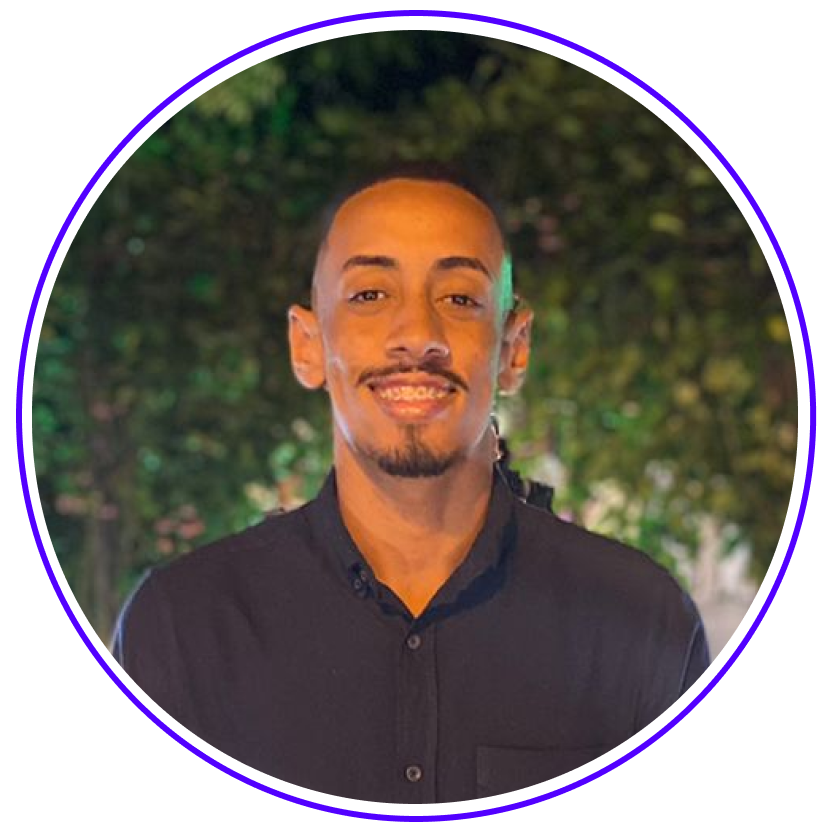
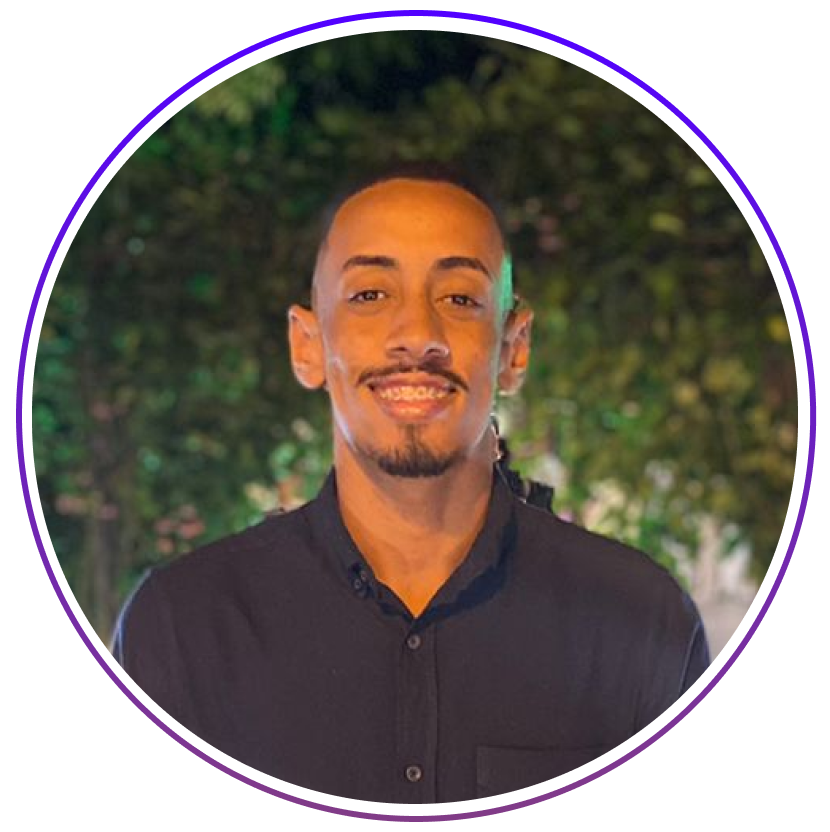
Finish portfolio :rocket:

diff --git a/src/components/Projects/styles.js b/src/components/Projects/styles.js
@@ -24,7 +24,7 @@ export const Container = styled.section`
     font-size: 16px;
 
     color: #fff;
-    background: #8A53FF;
+    background: linear-gradient(318deg, #813b87, #5200FF);
     border: none;
     border-radius: 5px;
     outline: none;
@@ -32,7 +32,6 @@ export const Container = styled.section`
 
     &:hover {
       transform: scale(1.1);
-      background: #6124EF;
     }
   }
 
@@ -58,43 +57,34 @@ export const ListProjects = styled.div`
 
   .project {
     margin: 32px 0;
-    display: flex;
+    display: grid;
+    grid-template-columns: 1fr 1fr;
     align-items: center;
-    justify-content: space-between;
-
-    &:nth-child(even) {
-      flex-direction: row-reverse;
-
-      @media (max-width: 860px) {
-        flex-direction: column;
-      }
-    }
-
-    &:nth-child(even) .project-info {
-      margin: 0;
-    }
     
     img {
       width: 250px;
       height: 120px;
+      margin: auto;
       margin-bottom: 16px;
       border-radius: 5px;
-      box-shadow:  2px 2px 32px 2px ${({ theme }) => (theme === 'dark' ? '#8A53FF61' : '#00000029')};
+      box-shadow:  2px 2px 32px 2px ${({ theme }) => (theme === 'dark' ? 'none' : '#00000029')};
       transition: all 0.3s ease-out;
 
       &:hover {
-        box-shadow:  1px 1px 32px 1px ${({ theme }) => (theme === 'dark' ? '#8A53FF' : '#0000006b')};
+        box-shadow:  1px 1px 32px 1px #8A53FF;
         transform: translate3d(0px, -0.125rem, 0px);
       }
     }
 
     .project-info {
-      margin-left: 72px;
-
       span {
         font-size: 22px;
         font-weight: bold;
         margin-bottom: 8px;
+      }
+
+      p {
+        margin-top: 4px;
       }
 
       a {
@@ -102,7 +92,10 @@ export const ListProjects = styled.div`
         margin-top: 12px;
         text-decoration: none;
         font-weight: bold;
-        color: #8A53FF;
+        background: linear-gradient(318deg, #813b87, #5200FF);
+        background-clip: text;
+        -webkit-background-clip: text;
+        -webkit-text-fill-color: transparent;
       }
 
       @media (max-width: 860px) {
@@ -117,6 +110,7 @@ export const ListProjects = styled.div`
     }
 
     @media (max-width: 860px) {
+      display: flex;
       justify-content: center;
       flex-direction: column;
     }

diff --git a/src/components/Landing/styles.js b/src/components/Landing/styles.js
@@ -12,6 +12,22 @@ const blink = keyframes`
   }
 `;
 
+const animateMouse = keyframes`
+  0% {
+    opacity: 0%;
+    transform: translateY(-20px);
+  }
+
+  50% {
+    opacity: 50%;
+  }
+
+  100% {
+    opacity: 100%;
+    transform: translateY(0);
+  }
+`;
+
 export const Container = styled.section`
   width: 100%;
   max-width: 1280px;
@@ -20,9 +36,12 @@ export const Container = styled.section`
 
   .mouse {
     position: absolute;
-    bottom: 32px;
+    bottom: 30px;
     left: 50%;
     color: ${({ theme }) => (theme === 'dark' ? '#fff' : '#000')};
+    animation: ${animateMouse} 1.3s infinite ease-in-out;
+    animation-delay: 3s;
+
 
     @media (max-width: 860px) {
       left: 46%;
@@ -72,7 +91,7 @@ export const LandingContainer = styled.div`
 
       &::after {
         width: 6px;
-        background: #8A53FF;
+        background: linear-gradient(318deg, #813b87, #5200FF);
         animation: ${animateText} 3s steps(24) 1s forwards, ${blink} 0.75s steps(24) infinite;
       }
 
@@ -111,12 +130,11 @@ export const LandingContainer = styled.div`
         border-radius: 5px;
         font-size: 16px;
         font-weight: 500;
-        background: #8A53FF;
+        background: linear-gradient(318deg, #813b87, #5200FF);
         transition: all 0.3s ease-out;
 
         &:hover {
           transform: scale(1.1);
-          background: #6124EF;
         }
         
         &:nth-child(2) {
@@ -158,8 +176,7 @@ export const ProfilePictute = styled.div`
     height: 350px;
     transition: all 0.3s ease-out 0s;
     box-shadow: 0px 0px 2.5rem ${({ theme }) => (theme === 'dark' ? '#5200FF61' : '#00000029')};
-    border-radius: 80%;
-    border: none;
+    border-radius: 100%;
 
     &:hover {
       transform: translate3d(0px, -0.125rem, 0px);

diff --git a/src/translate/languages/pt.js b/src/translate/languages/pt.js
@@ -15,9 +15,9 @@ const messages = {
         about: {
           bigText: 'Sobre mim',
           firstParagraph: 'Bem vindo(a) a meu portfolio!',
-          secondParagraph: 'Me chamo Pedro Leal, tenho 22 anos e estou há aproximadamente 1 ano focado nos estudos na área do Desenvolvimento Web. Como desenvolvedor, busco sempre aplicar as melhores práticas para entregar aplicações performáticas e com uma boa experiência para o usuário final.',
+          secondParagraph: 'Me chamo Pedro Leal, tenho 22 anos e estou a aproximadamente 1 ano focado nos estudos na área do Desenvolvimento Web. Como desenvolvedor, busco sempre aplicar as melhores práticas para entregar aplicações performáticas e com uma boa experiência para o usuário final.',
           thirdParagraph: 'Iniciei no mundo da programação no ano de 2018 quando ingressei no curso de Matemática Computacional na UFPB, durante o curso aprendi sobre os conceitos base da área como: lógica e algoritmos, condições, loops, estruturas de dados e etc. Também tive contato com as linguagens de programação C e Python.',
-          fourthParagraph: 'Atualmente, meu foco principal é o ecossistema do JavaScript, por isso diariamente me dedico ao desenvolvimento de novos projetos para colocar em prática meu estudos e adquirir mais conhecimento.',
+          fourthParagraph: 'Atualmente, meu foco principal é o ecossistema do JavaScript, por isso diariamente me dedico a criação de novos projetos para colocar em prática meus estudos e adquirir mais conhecimento.',
         },
         projects: {
           bigText: 'Projetos',

diff --git a/src/translate/languages/en.js b/src/translate/languages/en.js
@@ -13,11 +13,11 @@ const messages = {
           role: 'Front-end developer.',
         },
         about: {
-          bigText: 'Sobre mim',
+          bigText: 'About me',
           firstParagraph: 'Welcome to my portfolio!',
           secondParagraph: "My name is Pedro Leal, i'm 22 years old and i've been focusing on studies in the area of Web Development for approximately 1 year. As a developer, i always seek to apply best practices to deliver performance applications with a good end-user experience.",
           thirdParagraph: 'I started in the programming world in 2018 when I joined the Computational Mathematics course at UFPB, during the course I learned about the basic concepts of the area such as: logic and algorithms, conditions, loops, data structures and etc. I also had contact with the C and Python programming languages.',
-          fourthParagraph: 'Currently, my main focus is the JavaScript ecosystem, so I dedicate myself daily to the development of new projects to put my studies into practice and acquire more knowledge.',
+          fourthParagraph: 'Currently, my main focus is the JavaScript ecosystem, so I dedicate myself daily to create new projects to put my studies into practice and acquire more knowledge.',
         },
         projects: {
           bigText: 'Projects',

diff --git a/src/components/Techs/index.jsx b/src/components/Techs/index.jsx
@@ -1,5 +1,8 @@
+import { useContext } from 'react';
 import { Container, ListTechs, Tech } from './styles';
 import { i18n } from '../../translate/i18n';
+
+import { ThemeContext } from '../../App';
 
 const techs = [
   {
@@ -16,7 +19,7 @@ const techs = [
   },
   {
     name: 'NextJS',
-    iconSrc: 'https://cdn.jsdelivr.net/gh/devicons/devicon/icons/nextjs/nextjs-original-wordmark.svg',
+    iconSrc: 'https://cdn.jsdelivr.net/gh/devicons/devicon/icons/nextjs/nextjs-original.svg',
   },
   {
     name: 'Git',
@@ -37,14 +40,16 @@ const techs = [
 ];
 
 export function Techs({ elementRef }) {
+  const { theme } = useContext(ThemeContext);
+
   return (
-    <Container ref={elementRef}>
+    <Container ref={elementRef} theme={theme}>
       <h1>{i18n.t('components.techs.bigText')}</h1>
       <p>{i18n.t('components.techs.smallText')}</p>
       <ListTechs>
         {techs.map(({ name, iconSrc }, index) => (
           <Tech key={index}>
-            <div className="tech-square">
+            <div className={`tech-square tech-square-${name}`}>
               <img src={iconSrc} alt={`Icone ${name}`} />
             </div>
             <span>{name}</span>

diff --git a/src/components/Contact/styles.js b/src/components/Contact/styles.js
@@ -1,14 +1,25 @@
 import styled from 'styled-components';
 
 export const Container = styled.section`
-  width: 100vw;
+  width: 100%;
+  max-width: 1280px;
+  border-radius: 32px;
   margin: 72px auto;
   padding-bottom: 120px;
   margin-bottom: 0;
-  background: #5200FF;
+  background: linear-gradient(318deg, #813b87, #5200FF);
   display: flex;
   align-items: center;
   flex-direction: column;
+
+  @media (max-width: 1500px) {
+    max-width: 1080px;
+  }
+
+  @media (max-width: 1080px) {
+    max-width: 860px;
+  }
+
 
   .head {
     margin-top: 92px;
@@ -20,7 +31,7 @@ export const Container = styled.section`
     }
 
     h1 {
-      font-size: 32px;
+      font-size: 36px;
       color: #fff;
     }
   }
@@ -72,7 +83,7 @@ export const Container = styled.section`
         color: #fff;
       }
     }
-
+    
     @media (max-width: 860px) {
       flex-direction: column;
     }

diff --git a/src/components/Techs/styles.js b/src/components/Techs/styles.js
@@ -18,7 +18,8 @@ export const Container = styled.section`
   
   p {
     margin-top: 16px;
-    color: #8A53FF;
+    font-size: 18px;
+    color: #A3A3A3;
 
     @media (max-width: 860px) {
       text-align: center;
@@ -70,21 +71,26 @@ export const Tech = styled.div`
     font-size: 18px;
   }
 
+  
   .tech-square {
     padding: 8px;
     display: flex;
     align-items: center;
     justify-content: center;
-    background: #8A53FF;
-    border-radius: 10px;
     transition: all 0.3s ease-in-out;
-
+    
     &:hover {
       transform: scale(1.08);
     }
-
+    
     img {
       height: 50px;
     }
+  }
+  
+  .tech-square-NextJS {
+    background: #fafafa;
+    border-radius: 100%;
+    padding: 2px;
   }
 `;

diff --git a/src/components/About/styles.js b/src/components/About/styles.js
@@ -22,8 +22,16 @@ export const Container = styled.section`
     }
 
     .welcome {
+      font-size: 18px;
       font-weight: bold;
-      color: #8A53FF;
+      background: linear-gradient(318deg, #813b87, #5200FF);
+      background-clip: text;
+      -webkit-background-clip: text;
+      -webkit-text-fill-color: transparent;
+
+      @media (max-width: 860px) {
+        text-align: center;
+      }
     }
   }
   

diff --git a/src/components/Header/styles.js b/src/components/Header/styles.js
@@ -170,8 +170,8 @@ export const NavMobile = styled.div`
     font-size: 18px;
     margin: 24px 0;
     cursor: pointer;
-    background: #8A53FF;
-    border-radius: 20px;
+    background: linear-gradient(318deg, #813b87, #5200FF);
+    border-radius: 15px;
     padding: 8px 16px;;
   }
 
